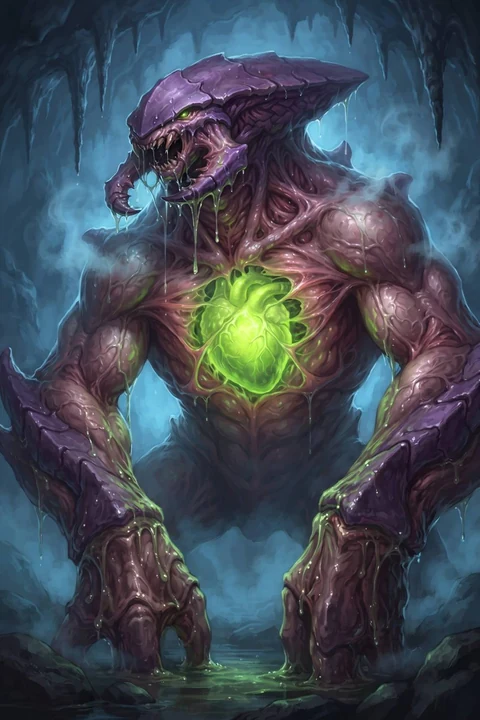
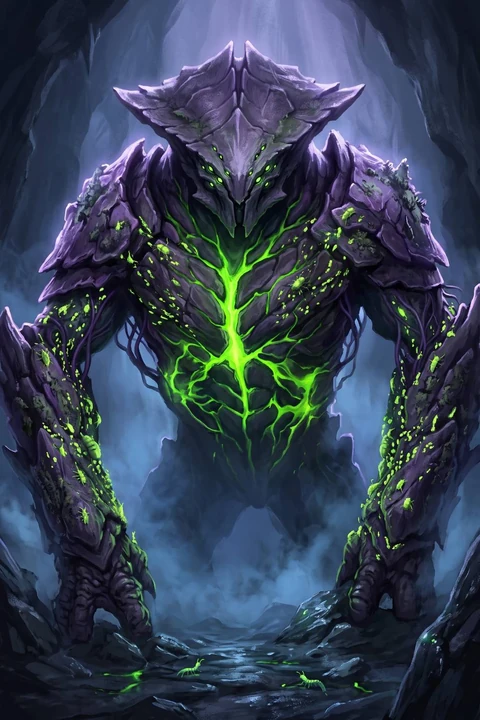
Update Growth leaders, Ravagers and Colossus art

diff --git a/docs/game/cards.js b/docs/game/cards.js
@@ -161,9 +161,9 @@ const growth = [
   ['nest', 'Гнездо-мать', 9, 3, 'В конце хода: породить по личинке в каждом своём ряду.',
     { art: 'nest.webp?v=art-25', endTurn: ability([spawn('right', 'all')]), keywords: ['Порождение'] }],
   ['colossus', 'Колосс', 11, 5, 'При розыгрыше: поглотить всех своих соседей.',
-    { art: 'colossus.webp?v=2', deploy: ability([absorb(adjacent)]), keywords: ['Соседи', 'Поглощение'] }],
+    { art: 'colossus.webp?v=art-25', deploy: ability([absorb(adjacent)]), keywords: ['Соседи', 'Поглощение'] }],
   ['ravager', 'Выводок-разоритель', 9, 4, 'При розыгрыше: поглотить свой отряд и нанести урон врагу в размере силы жертвы.',
-    { art: 'ravager.webp', deploy: ability([
+    { art: 'ravager.webp?v=art-25', deploy: ability([
       absorb(chosen('victim'), { multiplier: 0, save: 'strength' }),
       action('damage', chosen('enemy'), { result: 'strength' }),
     ], [
@@ -309,7 +309,7 @@ const protectorateLeaders = Object.freeze([
 
 const growthLeaders = Object.freeze([
   {
-    id: 'devourer', provisionBonus: 15, name: 'Пожиратель', art: 'devourer.webp', text: 'Поглотить свой отряд и передать удвоенную силу одному из его соседей.',
+    id: 'devourer', provisionBonus: 15, name: 'Пожиратель', art: 'devourer.webp?v=art-25', text: 'Поглотить свой отряд и передать удвоенную силу одному из его соседей.',
     ability: ability([
       absorb(chosen('victim'), { receiver: chosen('ally'), multiplier: 2 }),
     ], [
@@ -318,14 +318,14 @@ const growthLeaders = Object.freeze([
     ]),
   },
   {
-    id: 'brood-mother', provisionBonus: 15, name: 'Матка', text: 'Породить 3 личинки в выбранном своём ряду.',
+    id: 'brood-mother', provisionBonus: 15, name: 'Матка', art: 'brood-mother.webp?v=art-25', text: 'Породить 3 личинки в выбранном своём ряду.',
     ability: ability([
       { action: 'select-row', ref: 'row', filter: 'space', prompt: 'Выбери свой ряд для трёх личинок.' },
       { ...spawn('right', 'source', 3), rowRef: 'row' },
     ]),
   },
   {
-    id: 'carrier', provisionBonus: 15, name: 'Носитель', text: 'Наложить Заражение 3 на вражеский отряд и его соседей.',
+    id: 'carrier', provisionBonus: 15, name: 'Носитель', art: 'carrier.webp?v=art-25', text: 'Наложить Заражение 3 на вражеский отряд и его соседей.',
     ability: ability([
       { ...action('status', chosen('enemy'), 3), status: 'infection' },
       { ...action('status', { ...adjacent, of: 'enemy' }, 3), status: 'infection' },
